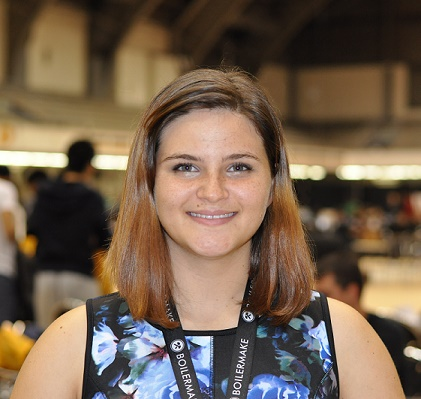
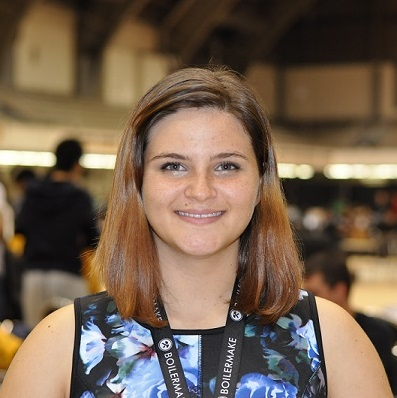
Added pictures of all officers, some of which will change.

diff --git a/people.html b/people.html
@@ -69,7 +69,7 @@
 										<p>Barb Clark has been our advisor for (insert #) years. She helps us do things such as (blank) and (blank). She also does (these things).</p>
 									</li>
 									<li>
-										<a><img src="images/pic1.jpg" alt="" class="left" /></a>
+										<a><img src="images/people/tripathyaBAD.jpg" alt="" class="left" /></a>
 										<h3>Vice President- Akanksha Tripathy</h3>
 										<a href="mailto:atripathy@purdue.edu">atripathy@purdue.edu</a>
 										<p>Akanksha Tripathy is our Vice President of CSWN.</p>
@@ -81,7 +81,7 @@
 										<p>Barb Clark has been our advisor for (insert #) years. She helps us do things such as (blank) and (blank). She also does (these things).</p>
 									</li>
 									<li>
-										<a><img src="images/pic2.jpg" alt="" class="left" /></a>
+										<a><img src="images/people/liranio.jpg" alt="" class="left" /></a>
 										<h3>Corporate Liason- Odilia Lirani</h3>
 										<a href="mailto:barbclark@purdue.edu">barbclark@purdue.edu</a>
 										<p>Barb Clark has been our advisor for (insert #) years. She helps us do things such as (blank) and (blank). She also does (these things).</p>
@@ -99,7 +99,7 @@
 							<section>
 								<ul class="big-image-list">
 									<li>
-										<a><img src="images/pic2.jpg" alt="" class="left" /></a>
+										<a><img src="images/people/khuenbBAD.jpg" alt="" class="left" /></a>
 										<h3>President- Bridgette Kuehn</h3>
 										<a href="mailto:bkhuen@purdue.edu">bkhuen@purdue.edu</a>
 										<p>Bridgette Khuen is the President of CSWN for the 2014-2015 year. She is currently a junior in Computer Science with a focus in (subject title here). She also does (blah) and (blah). She is involved in CSWN because of (blah).</p>
@@ -111,13 +111,13 @@
 										<p>Vitae magna eget odio amet mollis justo facilisis amet quis. Sed sagittis consequat.</p>
 									</li>
 									<li>
-										<a><img src="images/pic2.jpg" alt="" class="left" /></a>
+										<a><img src="images/people/parameswaraneBAD.jpg" alt="" class="left" /></a>
 										<h3>Event Coordinator- Eehita Parameswaran</h3>
 										<a href="mailto:barbclark@purdue.edu">barbclark@purdue.edu</a>
 										<p>Barb Clark has been our advisor for (insert #) years. She helps us do things such as (blank) and (blank). She also does (these things).</p>
 									</li>
 									<li>
-										<a><img src="images/pic2.jpg" alt="" class="left" /></a>
+										<a><img src="images/people/campbelll.jpg" alt="" class="left" /></a>
 										<h3>Corporate Liason- Lisa Campbell</h3>
 										<a href="mailto:barbclark@purdue.edu">barbclark@purdue.edu</a>
 										<p>Barb Clark has been our advisor for (insert #) years. She helps us do things such as (blank) and (blank). She also does (these things).</p>

diff --git a/css/style-desktop.css b/css/style-desktop.css
@@ -40,6 +40,7 @@
 
 	ul.big-image-list img {
 		width: 178px;
+		height: 220px;
 	}
 
 /* Reusable */
